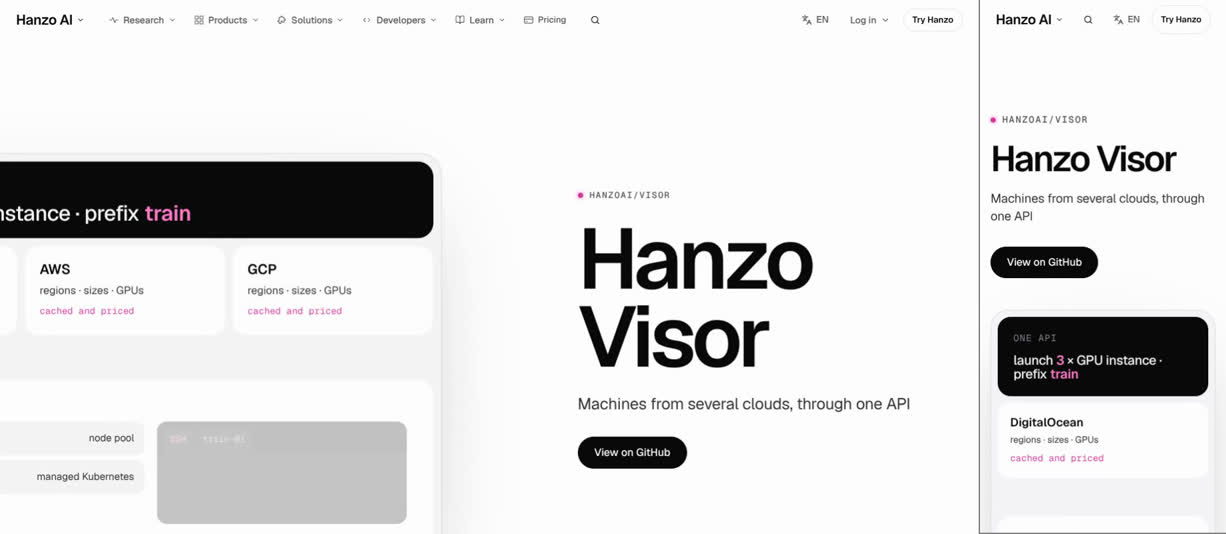
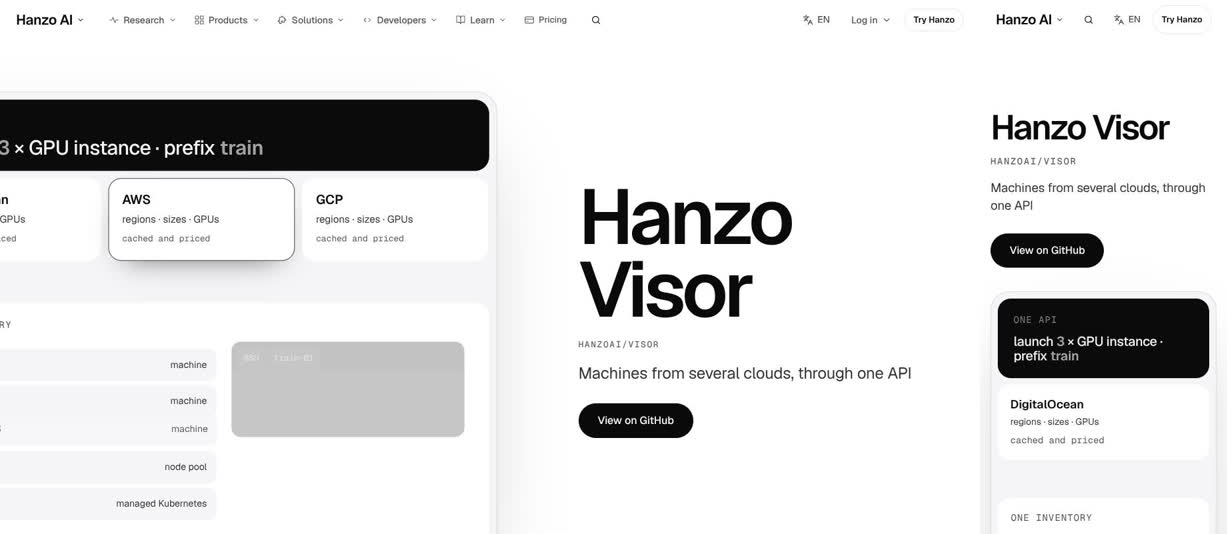
re-review: /visor 6/10 on the recoloured build (label over a heading, still after the hero, no coverage card)
Claude-Session: https://claude.ai/code/session_01DqUybEnABm6Lfey1goid2b

diff --git a/docs/review/visor.md b/docs/review/visor.md
@@ -1,48 +1,181 @@
 # /visor: James-eye review
 
-Verdict: 5/10
-First complaint: "It's pink again, with little green lights blinking on every box. I said greys, silvers, blacks and whites. When it opens, the main picture is chopped off the left side of my screen and there's a little label stuck on the headline. And when I clicked the first box it froze half open, see-through, with the title printed twice."
+Verdict: 6/10
+First complaint: "It's black and white now, that's better. But when it opens, the main picture is still chopped off the left side of my screen. Then the six boxes just sit there and nothing moves unless I touch it. On two of them the writing is white on white, so it's gone. And there's still a little label stuck on top of 'Volumes and images'."
 
-Reviewed: branch `claude/laughing-hamilton-uisesd` @ `486d6d0` (on main at this commit; main at `a220c78` has the same page, hero and close files). Files hash: `c08c2a304e47`
-Walked 7 Nov 14:08–14:12 UTC on the dev server, moving, at 1470×801 and 375×812 (videos, frame sheets and a frame-difference motion log kept by the critic; the site loader was skipped).
+Reviewed: main @ `2106935` (last page commit `d1a2614`, which reached main at 14:52, after this walk started; see "Not judged" below). Files hash: `8cb3e9b4066f`
+Walked 7 Nov 14:51–14:54 UTC on the dev server, moving, at 1470×801 and 375×812 (videos, frame sheets and a frame-difference motion log kept by the critic; the site loader was skipped).
 Proof: `img/visor.jpg` (desktop first screen | phone first screen).
 
-## The 11 answers
-1. **Sells in 5 seconds, moves within 1 second?** Half. The words are clear ("Hanzo Visor / Machines from several clouds, through one API"), and the title is 128px at line height 0.92. The console runs by itself: the three providers light up "cached and priced", AWS is picked with a pink border, train-01 to train-03 name themselves into the inventory, an SSH console opens and the audit row "launched · console opened · org · project" is written, then it loops (about 9.6 s). But desktop misses the 1-second test: 1 of 25 frames changes in the first second after paint. And at 1470×801 the console arrives 22% off the left edge and 16% too big, so the line that sells it reads "nstance · prefix train", DigitalOcean is off the screen, the inventory shows only its right-hand labels, and the console box is a grey 25% placeholder until step 6. By the time the console has slid fully into view, the title and button have faded to 16%, so you never see a readable title and the whole product together. Phone is better: 8 of 25 frames move in the first second, and the request card ("launch 3 × GPU instance · prefix train") and the DigitalOcean card sit under the button. But under 900px AWS and GCP are hidden, so "several clouds" shows one cloud and the pick never happens.
-2. **One in, one out, or a document?** A document after the hero. The hero pins on desktop while the copy fades and the console slides into place (scroll-scrubbed). Then a whole screen is just "What you get for the price of one integration" on black with the tops of two tiles at the bottom. Then all six tiles arrive at once in a three-column grid (one wide, a row of three equal boxes, one wide). Nothing changes as you scroll; you have to tap. Then the naming tool, then about two-thirds of a screen of empty white before the close, at both widths. On the phone nothing pins: the six tiles are six cards in a column. (The desktop film runs about 8 s behind the walker's clock, so desktop stills are matched by what they show.)
-3. **A real object in every section?** Hero: yes, the fleet console, though cut off on desktop. Dark room: six small drawings: grey and pink bars (01), pills (02), a 3×2 block of pink rectangles (03), the word "quote" at 88px in pink (04; a word, not a thing), RDP/VNC/SSH chips with a blinking caret (05) and three rows (06). They do not move apart from the green lights and the caret: the tile screens measure STILL (2 of 46 frames on desktop s3 and s4, 2 of 45 on phone s4). The naming tool: yes, and it is the best thing on the page. Change the prefix or the count and the inventory reflows under the new names, striped while it is a dry run. The "What you get" screen and the close have no object (the close is a prompt with a blinking caret and the "Get Visor" type).
-4. **One ask, sticky after the hero?** Nearly, and better than the rest of Cloud 4. The hero has one solid button, "View on GitHub" (magnetic). From the tiles to the naming tool, a bottom pill carries the same verb ("Hanzo Visor · View on GitHub →") on desktop, and the phone bar does the same while the header's "Try Hanzo" stays outlined. The gaps: while the hero settles, its button sits on screen at 16% and ignores clicks (it stops taking pointer events under 20%). On the "What you get" screen the only solid button is the header's "Try Hanzo". The close's only solid button is a second verb, "Deploy to Cloud", and the pill is gone there.
-5. **Every hover and press answers?** Mostly yes. "View on GitHub" gets a ring and presses to 0.98. The tiles turn their border pink, the "+" turns into a pink disc, the cursor says "Open", and they press to 0.98. "Fewer", "More" and "Copy" press to 0.92, and "Deploy to Cloud" to 0.98. The "hanzoai" chip has a hover but no press. The phone taps all answer (the walker logged "Fewer" as no change, but the film shows the count stepping from 3 to 2). The signature broke where it matters most: on desktop, opening 01/06 (the wide tile) left the card stuck at tile size for about 4 s in the film. It was see-through over tiles 01 and 02, with its heading printed twice ("One" in bold over a faded "catalogue, GPUs"). 02/06 then opened properly into a centred card, and on the phone 01 and 03 grow cleanly into a bottom sheet. Apart from the magnetic button and the "Open" label, nothing follows the pointer: no tilt and no preview.
-6. **Overlap, font swap, layout shift?** No overlap measured, no font swap (the h1 box sets once at 847 ms on desktop and 646 ms on phone, then holds), and no horizontal scroll at 375 or 320. CLS is 0.037 on desktop, mostly the hero console changing height as machines are added (0.029). On phone it is 0.029 (the dark room and the console box). James will still see one overlap: the stuck 01 card over the tile grid (answer 5).
-7. **Which reference, and is its motion there?** synchronized.studio: the tiles grow into a card with the heading and picture carried across (shared-element morph). That is the reference's move, and on phone it reads. But it opens a box over the page, not the next page, and on desktop the first one jammed. apple.com product page: the pinned hero where the product settles as you scroll is there. anthropic.com launch: no hero figure; "quote" in 88px pink is a word, not a figure.
-8. **Different from its neighbours?** Partly. The first screen is /sentinel's mirrored: the same side stage (title on one side, the live panel on the other, arriving 22% off the edge and 16% too big, the title fading to 16% as it settles). Here the panel comes from the left instead of the right. After that comes the kit: the "● X" eyebrow (as on /sentinel, /telemetry, /search and /metrics), one dark room with "01 / 06 — 06 / 06", and the same close as /sentinel, /stream, /telemetry and /search ("Get started with Hanzo X / Paste and ship / Get X / Deploy to Cloud"). Two things are new in the group: tiles that open instead of pinned chapters, and the naming tool. What mostly tells the pages apart is still a colour each: magenta here, violet /sentinel, teal /stream, amber /telemetry, blue /search, orange /tunnel. James: "It's not just a template."
-9. **All 18 parts covered?** No; see below. `docs/coverage/visor.md` is missing on the branch and on main.
-10. **Banned tells?** Yes:
-   - Magenta UI hue throughout, declared in the file as "Accent: fleet magenta" (`--ac: #d4379c`, plus `#ff7ac6`). It covers the "3" and "train" in the request, "cached and priced", the AWS pick border and its pink glow, the dry-run line, the machine squares, the tile numbers, the pills, the 3×2 blocks, "quote", the SSH chip, the audit dots, the tile hover border and "+" disc, the open card's glow, the prefix, the dry-run toggle and the prompt caret. Counted 60 times on desktop (h315/h330) and 41 on phone. JAMES.md rule 7: the UI has 0 brand hues.
-   - Green "ready" lights (`#30d158`, h135, 8 counts), pulsing on all six tiles. Green accents are on the reject list.
-   - "● HANZOAI/VISOR" eyebrow 24px above the h1, with a magenta dot, at both widths. Also a magenta "NAME A FLEET" kicker above the "Volumes and images" heading.
-   - Three equal boxes in a row (tiles 03, 04 and 05).
-   - Dead buttons: the hero's "View on GitHub" stays on screen at 16% while ignoring clicks.
-11. **Copy untouched?** Yes. Parity 29/29 text and 2/2 links. Of the 18 added strings, most are demo data (DigitalOcean, AWS, GCP, train-01 to train-03, gpu-pool, "org · project", "$ ▍"). The rest are labels lifted from Hanzo's own sentences ("regions · sizes · gpus", "dry run · quote returned · spends nothing", "launched · console opened · org · project", "one inventory · prefix"). Two to watch: "Name a fleet" is the builder's name for its tool, set in caps over a heading like a title, and "ready" is a status on six tiles that are not machines. Neither is a claim. Hanzo's "Volumes and images" is used twice as a heading (tile 02 and the naming tool).
+## Since the last review
+- **Done: the colour.** There are 0 hues at either width. Last time there were 60 magenta counts on desktop, 41 on phone and the green "ready" lights. The lights are grey now, the picked AWS card has an ink border and the glows are grey (`--ac: #525252`). **New from the recolour:** two chips lost their words. In the dark room `--ac` is `#fafafa`, and `.vs2-p1 .vm` and `.vs2-p4 span.on` set `color: #fff` on it. So tile 02's "train-01/02/03" and tile 05's "SSH" are white on white (d-shot-03, p-shot-02).
+- **Half done: nothing above a headline.** "HANZOAI/VISOR" is now a 12px caption under the h1 at both widths. **Still open:** "NAME A FLEET" sits directly above the h2 "Volumes and images" (d-shot-04: label at y 670, heading at y 700). Those words are not Hanzo's (`newtext.txt`).
+- **Half done: the hero and the ask.**
+  - The title and "View on GitHub" now stay at full strength and stay clickable while the console settles (s1: button sticky at y 384). The close's solid button is now "View on GitHub", and "Deploy to Cloud" is a text link. There are 3 `data-cta`. With JS off, 1 text run is hidden; it was 8, and the lede and the ask were among them.
+  - **Still open:** at 1470×801 the console starts with about a quarter of it off the left edge. "launch" and "DigitalOcean" are off the screen, and the inventory shows only its right-hand labels. Under 900px, AWS and GCP are still `display: none`.
+- **Still open: the tile room and the controls.**
+  - The tiles are still six boxes in one grid, with three equal boxes in a row (03–05) and no pin.
+  - The only idle movers are six pulsing dots and a caret.
+  - The card has no focus trap, the hero loop has no pause, and the coverage card is still missing.
+  - This walk did not open a tile on desktop, so last walk's jammed 01 card is unverified there. On phone, 01, 04 and 06 open and fold back cleanly.
+- **Not judged:** this walk did not include page commit `d1a2614` (14:51, merged to main 14:52:13; the walk ran 14:51:20–14:54 on `2106935`). In source it does three things:
+  - It sets the h1 to 52px, section heads to 26px and the close to 32/26px in the shared `Launch.css`.
+  - It swaps the tiles' spring for ease-emphasis.
+  - It removes the cursor-following "Open" label from the tiles.
 
-## Missing from the 18 parts (PLAN-COMPONENTS §2.1–2.18, measured)
-- **2.1 Strategy / 4 Common gate:** no `Persona:`, `Goal:`, `CTA:` or metric id in the page header. The page's verb is "View on GitHub", but the close's only solid button is "Deploy to Cloud".
-- **2.3 First impression:** with JS off, the h1 shows, but 8 text runs are hidden, including the lede "Machines from several clouds, through one API" and the only ask, "View on GitHub" (a P1 row). At 1470×801 the hero object starts cut by the left edge. On phone, two of the three providers are `display: none`. The tiles open into a box over the page, not into a page (Morph), and the close has no related card.
-- **2.4 Conversion:** 0 `data-cta`. The pill's verb differs from the close's. The hero button stops taking clicks while still visible.
-- **2.6 Content:** 9 text runs at 13px on phone, below the 14px floor (the naming tool's "prefix", "machines", "machine", "node pool", "managed Kubernetes"). Hanzo's six tile paragraphs sit in `hidden` spans, so find-in-page cannot reach them (plan: `hidden="until-found"`, Ctrl-F opens).
-- **2.7 Visual system:** the magenta and the green lights break the 0-hue override, and so does the pink glow under the open card and the picked AWS card.
-- **2.8 Components:** 13 bare `:hover` rules. "Previous" and "Next" are raw `.x-btn` (7 uses). The open card is a `role="dialog"` div with no focus trap, and focus does not return to the tile on close (plan: native `<dialog>.showModal()`, restore focus). The "hanzoai" chip has no press state.
-- **2.9 Motion:** the hero console loops forever with no pause control (2.12, WCAG 2.2.2). In the tile room, 5 animations run at once (the pulsing lights and the caret), against the budget of ≤1 continuous mover per viewport. 2 `setInterval` timers sit in the family's shared `Frame.jsx`, which the page loads. Reduced motion is good: everything comes to rest.
-- **2.11 Mobile:** the "hanzoai" chip is 111×36, under 44px.
-- **2.12 Accessibility:** magenta text measures 4.4:1, under 4.5:1: "Name a fleet", the "dry run" toggle, "train" and "dry run · quote returned". The dialog focus issue is under 2.8.
-- **2.13 Performance:** CLS 0.037 on desktop, from the hero console growing as machines are added. Reserve its full height.
-- **Coverage:** `docs/coverage/visor.md` is missing.
-- Passing: one h1, one main, no horizontal scroll at 320, no raw img/video/table, 0 `title=` tooltips, reduced motion settles, h1 box steady, one solid button in the hero, every tile and control presses, and the naming tool works.
+  So the 116px h1, the "Open" label and the spring seen below may be gone on main. "quote" stays at `clamp(56px, 6vw, 88px)`. The next walk has to check.
+
+## The 11 answers
+1. **Sells in 5 seconds, moves within 1 second?** The words do, and it moves. The picture is still cut.
+   - **Desktop:** the body is blank for the usual ~2 s, and the "first second after paint" reading of 0/25 falls inside that window (d-sheet-01 frames 1–4). After that the console starts within a second, with 19/48 moving frames in the rest of the 3 s:
+     - the providers light "cached and priced" (3.0 s);
+     - AWS is picked with an ink border and the dry-run line shows (4.5 s);
+     - train-01 to train-03 name themselves;
+     - the SSH console turns dark with "$ ▍" and the audit row is written.
+   - **But the first screen at 1470×801 shows half a product.**
+     - The request reads "3 × GPU instance · prefix train" ("launch" is off the screen).
+     - DigitalOcean shows as "n", and "ONE INVENTORY" as "RY".
+     - The machine names are cut down to their "machine" labels.
+     - The SSH box is a grey placeholder until its step comes.
+     - The console only slides fully into view once you scroll (s1).
+     - The h1 is 116px.
+   - **Phone:** the 52px title cuts in by line mask (p-sheet-01), then the caption, the lede and "View on GitHub" (y 355), then the full request card and the DigitalOcean card. 8/25 frames move in the first second and 41/60 after that. AWS and GCP are hidden, so "several clouds" shows one cloud and the pick never happens.
+2. **One in, one out, or a document?** A document after the hero.
+   - The hero is the one pinned scene: the console slides into place beside a title that now stays readable (s0 → s1).
+   - Then it reads top to bottom with no scene:
+     - s2: the 96px "What you get for the price of one integration" on black, with the tops of tiles 01 and 02;
+     - s3: all six tiles at once (01 wide and 02, then 03 / 04 / 05 equal, then 06 wide);
+     - s4: tile 06 and a band of empty black;
+     - s5: the naming tool;
+     - s6: the close;
+     - s7: "Get Visor".
+   - Nothing pins or changes as you scroll after the hero. The detail only comes by tapping a tile.
+   - On phone the tiles are six cards in a column (s2–s4), which is right for that width.
+3. **A real object in every section?** The hero and the naming tool, yes. The tile room only half.
+   - **Hero:** the fleet console, cut on desktop.
+   - **Tile room:** six small pictures: bars, chips, blocks, the word "quote", RDP/VNC/SSH chips with a caret, and three audit rows.
+     - Nothing in them moves except six pulsing grey dots and the caret. Phone s3–s5 measure STILL. The desktop shot pairs for s2–s8 differ only by a 1–2px scroll drift (residual 0.4–0.9 once aligned).
+     - Two pictures have lost their words: the white-on-white chips above.
+   - **Naming tool:** the best thing on the page. "−" and "+" step the count, and the rows enter and leave (phone film 3 → 2 → 3). The rows stay striped while it is a dry run.
+   - **Close:** only the shared "Paste and ship" prompt, with no product object.
+4. **One ask, sticky; nothing floating; scale with rhythm?** The ask is right. The scale is not.
+   - **The ask:** one solid button per screen.
+     - The hero has "View on GitHub" (y 605, then held in the pin at 384), and the close has "View on GitHub" (y 292 desktop, 346 phone).
+     - Between them the only solid is the header's "Try Hanzo" (desktop s2–s5, phone s1–s5).
+     - There are 3 `data-cta` and 1 `data-thumb`.
+   - **Floating:** the FLOATS reading is empty on every screen, and no ask bar shows at either width. **But** a cursor-following "Open" label rode the pointer over the tiles (d-sheet-07, beside "quote"). At s4 it was left stranded at the right edge over the black room (d-shot-04-a, x 1448, y 432). That is banned. `d1a2614` removes it in source.
+   - **Scale, as walked:** everything is a headline.
+     - Desktop: h1 116px; s1 116 + 96; s2 96; s3 88 ("quote"); s5 74 + 56; s6 88 + 74. That is BIG×2 on s1, s5 and s6, and the close puts "Get started with Hanzo Visor" and "Get Visor" on one screen.
+     - Phone: h1 52, then 47, 56 ("quote" is bigger than the h1), 36, 40 and 42.
+     - Live hanzo.ai rests at 52 / 26 / 64.
+5. **Every hover and press answers?** Mostly.
+   - **These answer:**
+     - "View on GitHub": a ring on hover, press 0.98.
+     - Tiles 03–05: the border lightens and the "+" disc fills; press 0.98.
+     - "Fewer" and "More": press 0.92.
+     - "Copy": press 0.94, and "Copied" with a tick on phone.
+     - "hanzoai": it now presses (0.98), which it did not last time.
+   - **Dead:** the hover on "dry run" and on "launch" (the press answers).
+   - **Small breaks:**
+     - The tile hover fills the "+" disc white, so the white "+" vanishes into it. The card's "×" does the same on hover.
+     - On phone the page scrolls behind an open card, so card 06 folded back across the naming tool (p-sheet-03, about 23 s).
+   - **Phone taps:** 01, 04 and 06 grow into a bottom card with the heading, Hanzo's paragraph, Previous / Next and the picture, then fold back. The walker logged "Fewer" as no change, but the film shows 3 → 2.
+   - **Pointer:** besides the magnetic ask there is only the banned "Open" label: no tilt and no preview.
+6. **Overlap, font swap, layout shift?**
+   - No overlap was measured at either width, and there is no horizontal scroll at 375 or 320.
+   - The h1 box sets once (497 ms desktop, 648 ms phone), so there is no font swap.
+   - **CLS is 0.088 on desktop** (fleet console 0.070, stage 0.018), up from 0.037. It comes from the console changing height as machines are added. Phone is 0.035.
+7. **Which reference, and is its motion there?**
+   - **apple.com product page:** yes. The hero pins and the product settles as you scroll.
+   - **synchronized.studio:** half. The tiles grow into a card with the heading and picture carried across, and on phone it reads cleanly. But it opens a box over the page, not the next page.
+   - **motion.dev:** the inventory's layout reflow in the naming tool.
+   - **anthropic.com launch:** no hero figure. "quote" is a word at 88px, not a number.
+8. **Different from its neighbours?** Less than before, because the colour used to do the work.
+   - **The first screen is /sentinel mirrored:** both use `StageHero look="side"`, and Visor adds `flip`. Each has:
+     - a 116px two-line title on one side;
+     - the live panel cut by the screen edge on the other;
+     - a mono caption under the h1 ("SENTRY.HANZO.AI" / "HANZOAI/VISOR"; also /stream's "KAFKA WIRE PROTOCOL" and /telemetry's "TELEMETRY.HANZO.AI").
+   - **The close is the shared `Finale`,** the same as 8 other Cloud 4 pages (/auto, /billing, /search, /sentinel, /stream, /telemetry, /tunnel, /world): "Get started with Hanzo X / Paste and ship / Get X / licence chip / hanzoai / Deploy to Cloud".
+   - **Its own:** the tiles that open and the naming tool. It is also the only one of these walks with no floating "Hanzo X | ask" pill.
+   - Magenta used to set it apart from /sentinel's violet. With both grey, the top of the two pages differs only by which side the panel is on. James: "It's not just a template."
+9. **All 18 parts covered?** No; see below. `docs/coverage/visor.md` is missing on main.
+10. **Banned tells?** Yes:
+    - **A label above a headline:** "NAME A FLEET" (12px) directly over the h2 "Volumes and images", at both widths.
+    - **Three equal boxes in a row:** tiles 03, 04 and 05 (desktop s3).
+    - **Everything big at once, as walked:** s1, s5 and s6 each carry two headings of 56–116px.
+    - **Floating over content, as walked:** the cursor-following "Open" label.
+    - **Dead after the hero:** nothing moves untouched past s1 apart from six blinking dots and a caret.
+
+    Clean now: 0 hues, nothing above the h1, no opacity-only hover, 0 `title=` tooltips, no sound, no console errors.
+11. **Copy untouched?** Yes.
+    - Parity is 29/29 text and 2/2 links.
+    - The 18 added strings are demo data (DigitalOcean, AWS, GCP, train-01 to train-03, gpu-pool, "$ ▍", "org · project") and labels lifted from Hanzo's sentences ("regions · sizes · gpus", "dry run · quote returned · spends nothing", "launched · console opened · org · project").
+    - Two are the builder's own: "Name a fleet", set over a heading like a title, and "ready", a status on six tiles that are not machines.
+    - There is no new claim or number. Hanzo's "Volumes and images" is used as two headings (tile 02 and the naming tool).
+
+## Missing from the 18 parts (MASTER §2, measured; coverage card checked)
+- **Coverage card:** `docs/coverage/visor.md` does not exist on main (HEAD `a2f6b60`, origin/main `27241b8`). That alone caps the page at 7, and no part has a `Done here:` line.
+- **Part 1 Strategy:** the header has no `Persona:`, `Goal:`, `CTA:` or metric line (all four checks false). It still reads "Accent: fleet magenta" and scores itself "V2: 8/10". No copy questions are listed, because there is no card.
+- **Part 3 First impression:**
+  - At 1470×801 the hero object starts with about a quarter of it off the left edge.
+  - With JS off, 1 run is hidden: the audit line "launched · console opened · org · project".
+  - The tiles open into a box over the page, not into a page (Morph).
+  - The close has two headings, "Get started with Hanzo Visor" and then "Get Visor".
+- **Part 4 Conversion:** "Previous" and "Next" in the open card are raw `.x-btn` (7 uses), not `<Cta>`.
+- **Part 6 Content:** 7 text runs are 13px on phone ("prefix", "machines", "machine" and others), under the 14px floor. Hanzo's six tile paragraphs sit in `hidden` spans, not `hidden="until-found"`, so find-in-page cannot reach them.
+- **Part 7 Visual system:**
+  - "NAME A FLEET" sits above an h2, and there are three equal boxes in a row.
+  - The tiles have both a fill and a 1px outline, and `.vs2-inv2` has both an outline and a 48/120 shadow (raise or outline, never both).
+  - `Visor.css` uses literal hex throughout instead of tokens.
+  - Two chips are white on white.
+- **Part 8 Components:**
+  - The open card is a `role="dialog"` div: focus is not trapped and does not return to the tile.
+  - "dry run" and "launch" have no hover.
+  - There are 13 bare `:hover` rules.
+  - "−" and "+" press to 0.92 (the deck press is 0.97).
+  - As walked, the tiles opened on a spring (no springs); `d1a2614` swaps it in source.
+- **Part 9 Motion:**
+  - Past the hero nothing moves without input at either width.
+  - The tile room runs six pulsing dots and a caret at once (budget: one continuous mover per viewport).
+  - The hero console loops (about 9.6 s) with no pause control.
+  - The family's `Frame.jsx` has 2 `setInterval` timers.
+  - The only pointer motion is the magnetic ask and the banned "Open" label.
+  - Reduced motion settles (0 running after 3 s).
+- **Part 11 Mobile:**
+  - Two of the three providers are hidden under 900px.
+  - "Deploy to Cloud" is 132×21, under 44px.
+  - The page scrolls behind an open card.
+- **Part 12 Accessibility:** the looping hero has no pause (WCAG 2.2.2). For the dialog focus, see part 8.
+- **Part 13 Performance:** CLS is 0.088 on desktop (fleet console 0.070), up from 0.037, against a lab target of 0.02. The console needs its full height reserved.
+- **Part 18 Handover:** no card (above).
+- Passing:
+  - one h1, visible with JS off, and one main;
+  - 0 hues at both widths and nothing above the h1;
+  - no overlap and no horizontal scroll at 375 or 320;
+  - 0 low-contrast runs measured and 0 `title=` tooltips;
+  - no raw img, video or table;
+  - 3 `data-cta` and 1 `data-thumb`, and one solid ask per screen;
+  - nothing floating at either width, apart from the "Open" label;
+  - reduced motion settles and the h1 box is steady;
+  - no console errors;
+  - parity 29/29 and 2/2.
 
 ## Fixes (in order)
-1. **Take the magenta and the green out.** Draw the machines, the picked provider, "train", "quote", the pills, the bars and the blocks in ink and greys, and show the selected state as an inverted ink chip. Make the "ready" lights grey or remove them, drop the pink glows, and make the caret ink.
-2. **Make the first screen the whole product at 1470×801.** Start the console in place, or cut its travel and scale so the request line "launch 3 × GPU instance · prefix train" and all three providers are on screen from the first frame. Keep the title and "View on GitHub" at full strength and clickable until they leave the screen. On phone, show the three providers as one compact row so the AWS pick still happens.
-3. **Delete the "● HANZOAI/VISOR" eyebrow above the h1 and the "NAME A FLEET" kicker above "Volumes and images".**
-4. **Fix the tile opening on desktop.** The wide 01 tile froze see-through at tile size for about 4 s with its heading doubled. Make the morph start reliably (measure after the press scale has returned, and stop smooth scroll only once the card has opened), then trap focus in the card and return it to the tile on close.
-5. **Give the tile room movement, one thing at a time.** Swap the bento of six still boxes for a pinned room that brings in one tile per step. Let each tile's own picture run while it is in view: the catalogue bars filling, machines naming themselves in sequence, the dry run turning into a quote. That also removes the row of three equal boxes.
-6. **One ask to the end.** Make the close's solid button "View on GitHub", the same verb as the hero and the pill, and make "Deploy to Cloud" the text link beside it. Show the pill from the "What you get" screen on.
+1. **Put the whole console on the first screen at 1470×801.** Pass `travel={{ s: [1, 1], x: ['0%', '0%'] }}` to `StageHero` in `Visor.jsx` (the prop exists). The request line "launch 3 × GPU instance · prefix train", all three providers and the inventory names are then on screen from the first frame. Give `.vs2-inv` a fixed height for five rows plus the console, so adding machines stops shifting the layout. On phone, show DigitalOcean, AWS and GCP as one compact row instead of hiding two, so the AWS pick still happens.
+2. **Delete the "Name a fleet" label** (`<p className="l2-kick ac">` in `Name()`). The words are not Hanzo's, and the h2 "Volumes and images" stands on its own.
+3. **Make the tile room move one thing at a time, and break the row of three.**
+   - Make the grid two columns, so 01 and 06 span the width and 02|03 and 04|05 sit in pairs.
+   - Let each tile's own picture run once while it is in view (with `useLive` from `Frame.jsx`): the catalogue bars fill, train-01 to train-03 name themselves, "dry run" turns into "quote", the caret types after "$", and the three audit rows land in order.
+   - Stop the six pulsing "ready" dots.
+4. **Give the lost words back, and settle the figures.**
+   - In the dark room set `color: #0a0a0a` on `.vs2-p1 .vm` and `.vs2-p4 span.on`, so they read ink on white.
+   - Do the same for the "+" on `.vs2-tile:hover::after` and the "×" on `.vs2-x:hover`.
+   - Bring "quote" (`.vs2-p3 b`) down to the 64px figure size.
+   - Re-walk to confirm `d1a2614`'s 52 / 26 / 32 headings on screen.
+5. **Write `docs/coverage/visor.md`** from `_TEMPLATE.md`, with a filled `Done here:` line for all 18 parts. In the page header, add the `Persona:`, `Goal:`, `CTA:` and metric lines, and delete "Accent: fleet magenta".
+6. **Make every control answer.**
+   - Make the open card a native `<dialog>` with `showModal()`, so focus stays inside and returns to the tile.
+   - Give "dry run" and "launch" a hover that changes more than opacity (the selected state's white fill at half strength).
+   - Add a 44px pause control to the looping hero console.
+   - Swap "Previous" and "Next" to the kit's quiet `Cta`.
+   - Raise the phone labels "prefix", "machines" and "machine" to 14px, and give "Deploy to Cloud" a 44px hit area.
